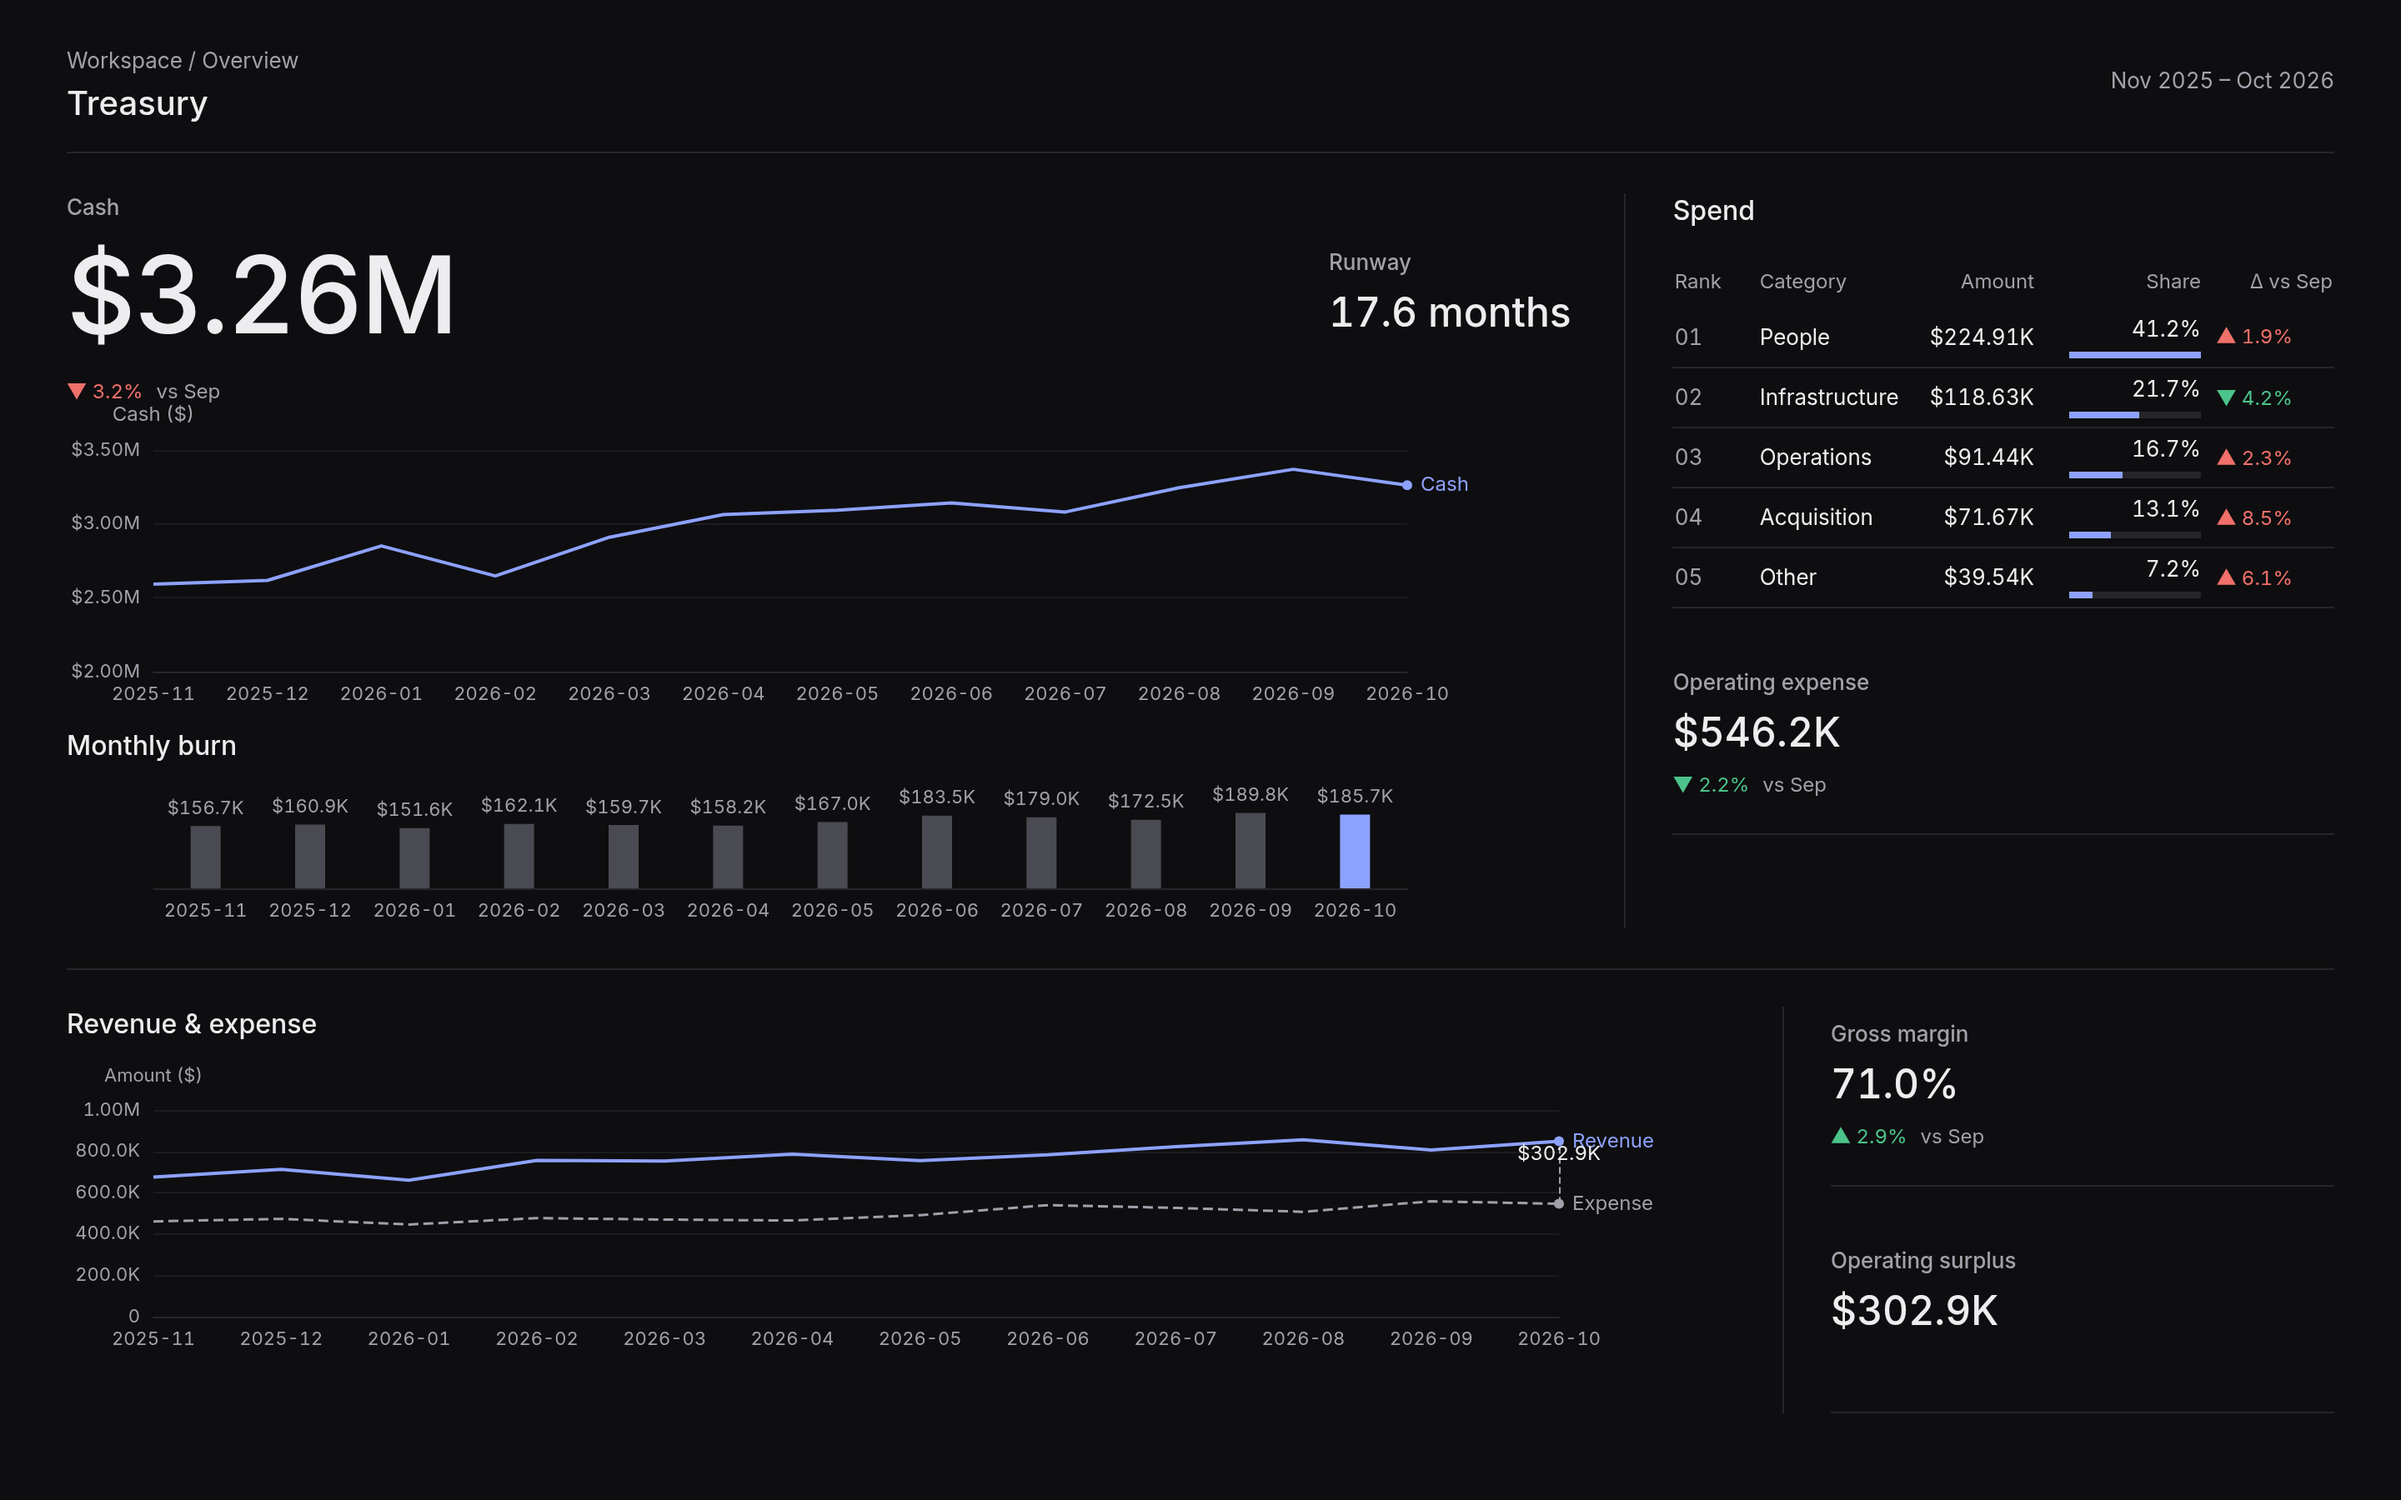
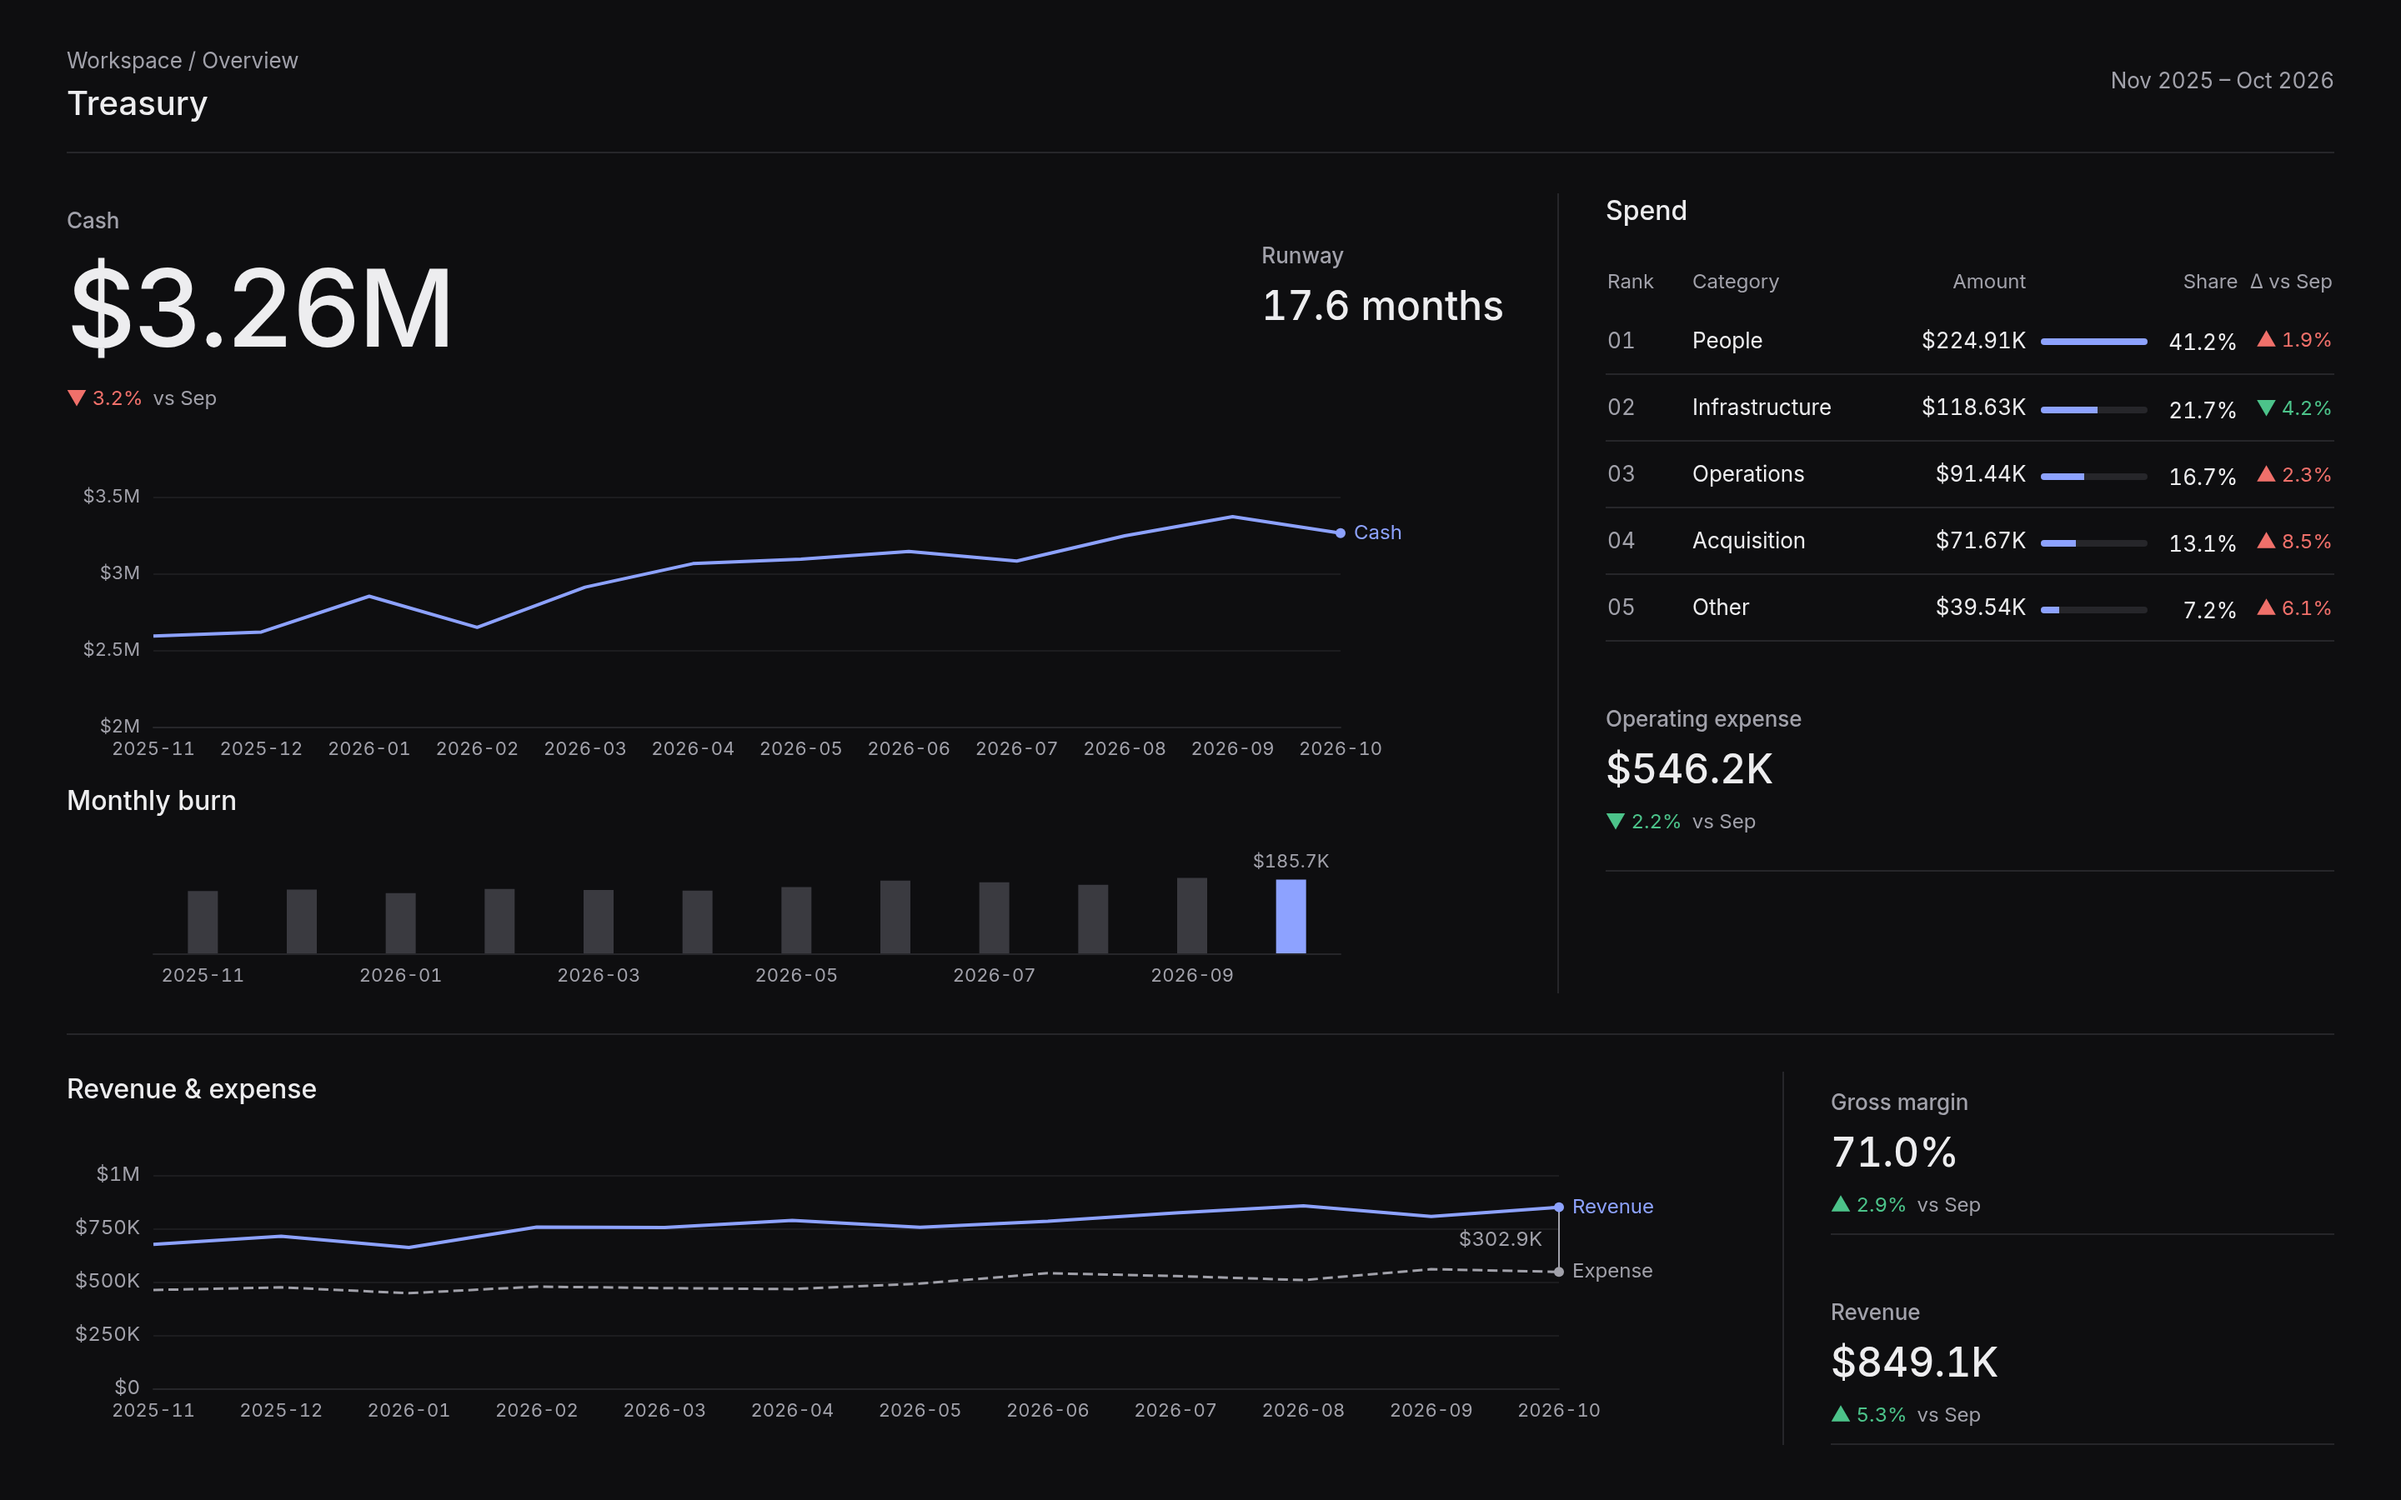
Polish after boards: tick units, inline shares, sparse labels, wide/tall comparisons

diff --git a/src/extract-in-page.ts b/src/extract-in-page.ts
@@ -122,6 +122,12 @@ export function extractInPage(): PageFacts {
         getInstanceByDom: (el: Element) =>
           | {
               getOption: () => Record<string, unknown>;
+              getModel?: () => {
+                getComponent: (
+                  type: string,
+                  index: number,
+                ) => { axis?: { getViewLabels: () => { formattedLabel: string }[] } } | undefined;
+              };
             }
           | undefined;
       };
@@ -138,6 +144,18 @@ export function extractInPage(): PageFacts {
             typeof value === 'function' ? '[function]' : value,
           ),
         );
+        for (const type of ['xAxis', 'yAxis']) {
+          const axes = option[type];
+          if (Array.isArray(axes))
+            axes.forEach((axis, index) => {
+              axis.renderedTickLabels =
+                instance
+                  .getModel?.()
+                  .getComponent(type, index)
+                  ?.axis?.getViewLabels()
+                  .map((label) => label.formattedLabel) ?? [];
+            });
+        }
         // ECharts 6 returns singleton components as arrays, including tooltip.
         if (Array.isArray(option.tooltip)) option.tooltip = option.tooltip[0];
         facts.charts.push({ id: el.id || selector(el), option });

diff --git a/src/format.ts b/src/format.ts
@@ -23,7 +23,7 @@ export function formatCompact(
           [1e6, 'M'],
           [1e3, 'K'],
         ];
-  const unit = units.find(([n]) => Math.abs(value) >= Math.max(n, options.compactFrom ?? 0));
+  const unit = units.find(([n]) => Math.abs(value) >= Math.max(n, options.compactFrom ?? 10000));
   const minimumFractionDigits = options.minimumFractionDigits ?? 0;
   return unit
     ? `${(value / unit[0]).toLocaleString('en-US', { minimumFractionDigits, maximumFractionDigits: Math.max(minimumFractionDigits, pack === 'cn' ? 2 : 1), useGrouping: false })}${unit[1]}`
@@ -32,7 +32,7 @@ export function formatCompact(
           minimumFractionDigits,
           maximumFractionDigits: Math.max(minimumFractionDigits, 2),
         })
-      : String(value);
+      : value.toLocaleString('en-US', { maximumFractionDigits: 2 });
 }
 export function formatPercent(value: number, digits = 1): string {
   return Number.isFinite(value) ? `${(value * 100).toFixed(digits)}%` : '–';

diff --git a/test/format.test.ts b/test/format.test.ts
@@ -3,16 +3,19 @@ import { formatCompact, formatPercent, formatDelta, formatDate } from '../src/fo
 import { score } from '../src/engine.js';
 it('compact global', () => {
   expect([1200, 3400000, 5600000000].map((n) => formatCompact(n, 'global'))).toEqual([
-    '1.2K',
+    '1,200',
     '3.4M',
     '5.6B',
   ]);
-  expect(formatCompact(-1200, 'global')).toBe('-1.2K');
+  expect(formatCompact(-1200, 'global')).toBe('-1,200');
+});
+it('groups counts below 10,000 in both packs', () => {
+  for (const pack of ['global', 'cn'] as const) expect(formatCompact(2007, pack)).toBe('2,007');
 });
 it('compact cn', () => {
   expect(formatCompact(12300, 'cn')).toBe('1.23万');
   expect(formatCompact(456000000, 'cn')).toBe('4.56亿');
-  expect(formatCompact(9999, 'cn')).toBe('9999');
+  expect(formatCompact(9999, 'cn')).toBe('9,999');
 });
 it('invalid formatting', () => {
   expect(formatCompact(Infinity, 'cn')).toBe('–');

diff --git a/test/rules/dt009.test.ts b/test/rules/dt009.test.ts
@@ -13,6 +13,17 @@ describe('DT009', () => {
   it('passes a named value axis', () => {
     expect(check(passing, { pack: 'global', only: ['DT009'] })).toEqual([]);
   });
+  it('accepts units in rendered ticks and rejects bare numbers', () => {
+    for (const tick of ['$400K', '12万', '25%', '300ms', '2M'])
+      expect(
+        check(chart({ yAxis: { type: 'value', renderedTickLabels: [tick] } }), { only: ['DT009'] }),
+      ).toEqual([]);
+    expect(
+      check(chart({ yAxis: { type: 'value', renderedTickLabels: ['400', '200'] } }), {
+        only: ['DT009'],
+      }),
+    ).toHaveLength(1);
+  });
   for (const pack of ['global', 'cn'] as const) {
     it('passes an empty option for ' + pack, () => {
       expect(check({}, { pack, only: ['DT009'] })).toEqual([]);

diff --git a/src/rules/dt009-missing-unit.ts b/src/rules/dt009-missing-unit.ts
@@ -1,13 +1,13 @@
 import type { Rule } from '../types.js';
 import { valueAxes, hasUnit, rule, charts } from './helpers.js';
 
-/** Value axes need a name, formatter, or unit metadata. */
+/** Value axes need a name, formatter, unit metadata, or units in rendered ticks. */
 export const dt009: Rule = rule(
   9,
   'missing-unit',
   'warn',
-  'Value axes need a name, formatter, or unit metadata.',
-  'put units in axis names or formatter metadata',
+  'Value axes need a name, formatter, unit metadata, or units in rendered ticks.',
+  'put units in axis names, rendered ticks, or formatter metadata',
   function check(facts, context, emit) {
     charts(facts, (option, path) =>
       valueAxes(option).forEach((axis) => {

diff --git a/src/rules/helpers.ts b/src/rules/helpers.ts
@@ -86,7 +86,11 @@ export function hasUnit(axis: Option): boolean {
     axis.unit ||
     axis.unitMetadata ||
     axis.meta?.unit ||
-    axis.axisLabel?.formatter
+    axis.axisLabel?.formatter ||
+    (Array.isArray(axis.renderedTickLabels) &&
+      axis.renderedTickLabels.some((text) =>
+        /[$¥€£%万亿]|\d\s*[KMB]\b|\d\s*(?:元|人|件|次|ms|s|kg|days|months)\b/i.test(String(text)),
+      ))
   );
 }
 

diff --git a/README.md b/README.md
@@ -99,10 +99,10 @@ All data is fictional and seeded in [gallery/data.mjs](gallery/data.mjs). Each p
 
 | Dashboard | Pack, mode         | Before                                              | After                              |
 | --------- | ------------------ | --------------------------------------------------- | ---------------------------------- |
-| saas      | global, light      | [28 errors, 36 warnings](gallery/saas-before.png)   | [clean](gallery/saas-after.png)    |
-| finance   | global, dark       | [7 errors, 30 warnings](gallery/finance-before.png) | [clean](gallery/finance-after.png) |
-| store     | cn, light          | [34 errors, 26 warnings](gallery/store-before.png)  | [clean](gallery/store-after.png)   |
-| live      | cn, dark 1920×1080 | [32 errors, 44 warnings](gallery/live-before.png)   | [clean](gallery/live-after.png)    |
+| saas      | global, light      | [32 errors, 50 warnings](gallery/saas-before.png)   | [clean](gallery/saas-after.png)    |
+| finance   | global, dark       | [7 errors, 40 warnings](gallery/finance-before.png) | [clean](gallery/finance-after.png) |
+| store     | cn, light          | [41 errors, 61 warnings](gallery/store-before.png)  | [clean](gallery/store-after.png)   |
+| live      | cn, dark 1920×1080 | [32 errors, 76 warnings](gallery/live-before.png)   | [clean](gallery/live-after.png)    |
 
 The live page renders at 1920×1080; the others at 1440×900.
 
@@ -111,6 +111,11 @@ pnpm gallery
 ```
 
 This builds the CLI, copies local ECharts into the ignored `gallery/vendor/` folder, renders eight PNGs, and writes [results.json](gallery/results.json). No CDN or network fonts are used. Set `CHROME_PATH` to your local Chromium executable; the default is `/usr/bin/google-chrome`. The browser test extracts each live page again instead of trusting saved scores.
+
+- saas: [wide](gallery/compare/saas-wide.png) · [tall](gallery/compare/saas-tall.png)
+- finance: [wide](gallery/compare/finance-wide.png) · [tall](gallery/compare/finance-tall.png)
+- store: [wide](gallery/compare/store-wide.png) · [tall](gallery/compare/store-tall.png)
+- live: [wide](gallery/compare/live-wide.png) · [tall](gallery/compare/live-tall.png)
 
 ## Status
 

diff --git a/docs/rules.md b/docs/rules.md
@@ -250,9 +250,9 @@ Severity: warn. Packs: global, cn.
 
 Why: A value without a unit is ambiguous.
 
-Triggers: Value axes need a name, formatter, or unit metadata.
+Triggers: Value axes need a name, formatter, unit metadata, or units in rendered ticks.
 
-Fix: put units in axis names or formatter metadata.
+Fix: put units in axis names, rendered ticks, or formatter metadata.
 
 Minimal failing input:
 

diff --git a/skills/dashtaste-cn/references/avoid.md b/skills/dashtaste-cn/references/avoid.md
@@ -45,8 +45,8 @@ Replace it: use one value axis or aligned small multiples.
 
 ## DT009: missing-unit
 
-Value axes need a name, formatter, or unit metadata.
-Replace it: put units in axis names or formatter metadata.
+Value axes need a name, formatter, unit metadata, or units in rendered ticks.
+Replace it: put units in axis names, rendered ticks, or formatter metadata.
 
 ## DT010: bar-baseline
 

diff --git a/skills/dashtaste-global/references/avoid.md b/skills/dashtaste-global/references/avoid.md
@@ -45,8 +45,8 @@ Replace it: use one value axis or aligned small multiples.
 
 ## DT009: missing-unit
 
-Value axes need a name, formatter, or unit metadata.
-Replace it: put units in axis names or formatter metadata.
+Value axes need a name, formatter, unit metadata, or units in rendered ticks.
+Replace it: put units in axis names, rendered ticks, or formatter metadata.
 
 ## DT010: bar-baseline
 

diff --git a/skills/dashtaste-global/references/numbers.md b/skills/dashtaste-global/references/numbers.md
@@ -2,7 +2,7 @@
 
 ## Compact amounts
 
-Use K at 1,000, M at 1,000,000, and B at 1,000,000,000.
+Keep counts below 10,000 grouped in full. Use K from 10,000, M at 1,000,000, and B at 1,000,000,000.
 Auto examples: 12,300 → 12.3K; 2,300,000 → 2.3M.
 Fix one display unit across a comparison table or shared axis.
 Keep exact values in details when compact rounding hides a meaningful difference.
